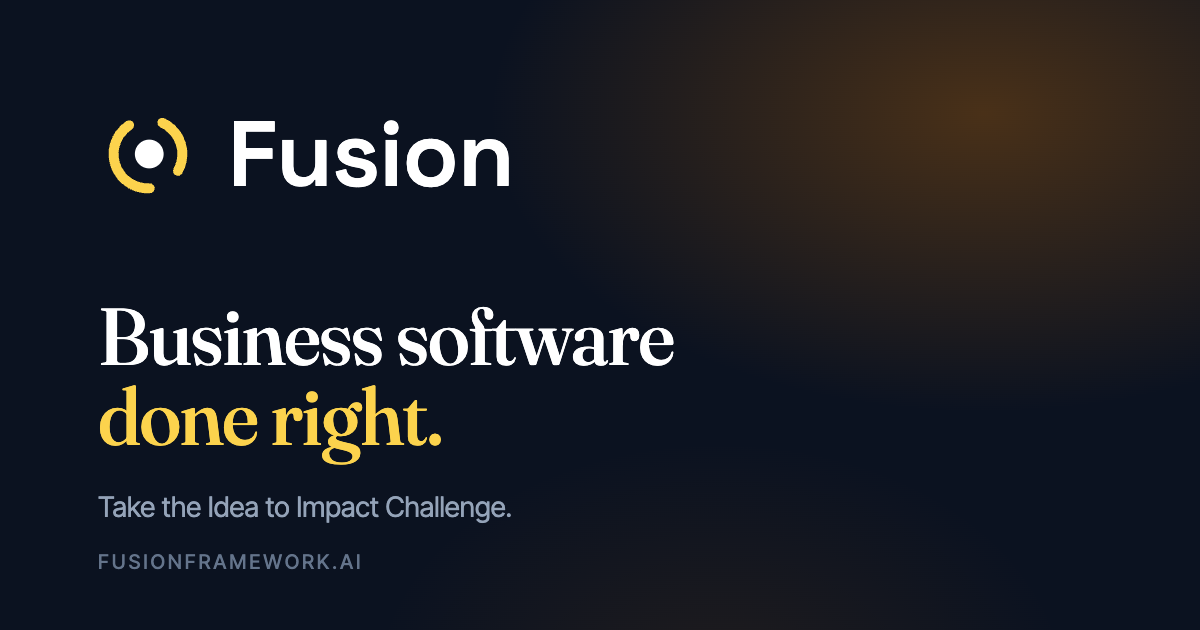
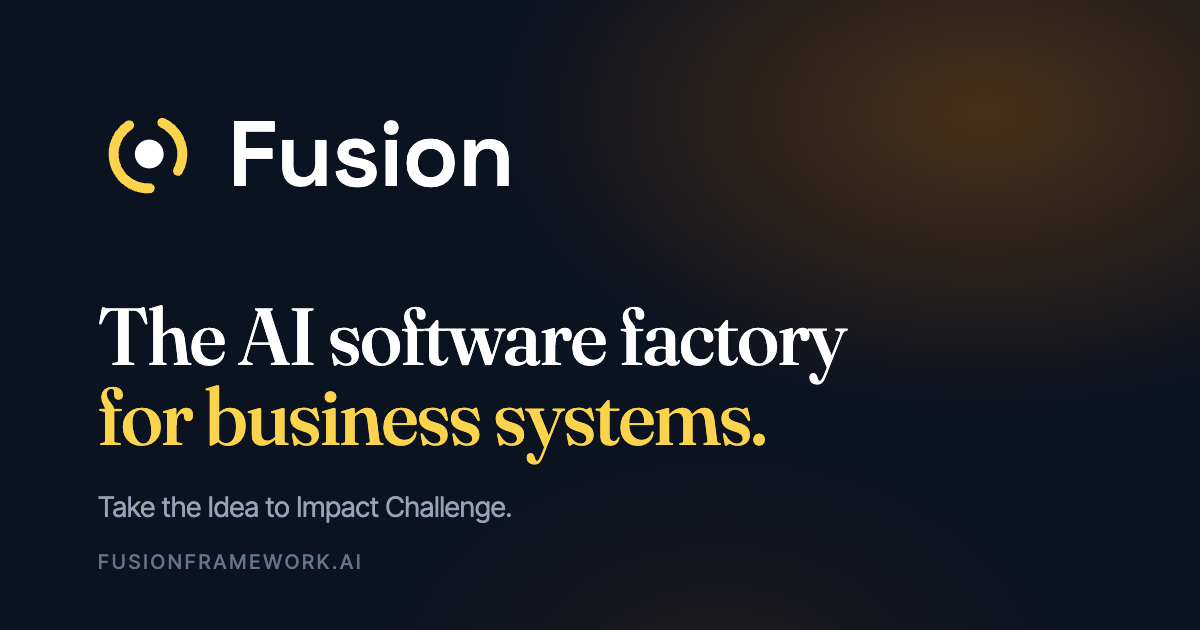
Make "The AI software factory for business systems." the home headline
These items now use the new headline:
- the hero heading;
- the page title, og:title and twitter:title;
- the JSON-LD slogan;
- the social card (og-image.png).

The hero text no longer repeats "AI", because the headline now says it.

Changed region(s): [[0.0617, 0.4825, 0.7092, 0.754]]

diff --git a/index.html b/index.html
@@ -24,21 +24,21 @@
     if (target) location.replace(target);
   })();
 </script>
-<title>Fusion — Business software done right.</title>
+<title>Fusion — The AI software factory for business systems.</title>
 <meta name="description" content="Fusion helps organisations deliver working software. We built Fusion from real deliveries." />
 <link rel="canonical" href="https://fusionframework.ai/" />
 <link rel="icon" type="image/svg+xml" href="/site/images/favicon.svg" />
 
 <meta property="og:type" content="website" />
 <meta property="og:site_name" content="Fusion" />
-<meta property="og:title" content="Fusion — Business software done right." />
+<meta property="og:title" content="Fusion — The AI software factory for business systems." />
 <meta property="og:description" content="Fusion helps organisations deliver working software. We built Fusion from real deliveries." />
 <meta property="og:url" content="https://fusionframework.ai/" />
 <meta property="og:image" content="https://fusionframework.ai/site/images/og-image.png" />
 <meta property="og:image:width" content="1200" />
 <meta property="og:image:height" content="630" />
 <meta name="twitter:card" content="summary_large_image" />
-<meta name="twitter:title" content="Fusion — Business software done right." />
+<meta name="twitter:title" content="Fusion — The AI software factory for business systems." />
 <meta name="twitter:description" content="Fusion helps organisations deliver working software. We built Fusion from real deliveries." />
 <meta name="twitter:image" content="https://fusionframework.ai/site/images/og-image.png" />
 
@@ -48,7 +48,7 @@
   "@type": "Organization",
   "name": "Fusion",
   "url": "https://fusionframework.ai/",
-  "slogan": "AI-assisted delivery that ships.",
+  "slogan": "The AI software factory for business systems.",
   "description": "Fusion helps organisations deliver working software. We built Fusion from real deliveries."
 }
 </script>
@@ -423,10 +423,10 @@
   <div class="relative z-10 mx-auto flex w-full max-w-7xl flex-1 flex-col px-5 pt-14 pb-6 md:pt-16">
     <div class="flex flex-1 flex-col justify-center reveal reveal-2">
       <h1 class="font-display max-w-4xl text-balance text-5xl font-medium text-white md:text-7xl leading-[0.98]">
-        Business software done right.
+        The AI software factory for business systems.
       </h1>
       <p class="mt-7 max-w-2xl text-lg leading-8 text-slate-300 md:text-xl">
-        Fusion gives you a disciplined delivery pipeline, AI across the full lifecycle, quality design and agile execution. No per-seat licensing. No hosting lock-in.
+        Fusion gives you a disciplined delivery pipeline across the full lifecycle, with quality design and agile execution. No per-seat licensing. No hosting lock-in.
       </p>
       <div class="mt-9 flex flex-col gap-3 sm:flex-row">
         <a href="https://calendar.app.google/vyiAmnbNBDbvg6dC7" target="_blank" rel="noopener" class="btn btn-signal h-auto gap-0 px-7 py-4 text-base font-semibold plausible-event-name=Book+Meeting plausible-event-position=hero plausible-event-cta=Start+with+a+one-hour+session">
